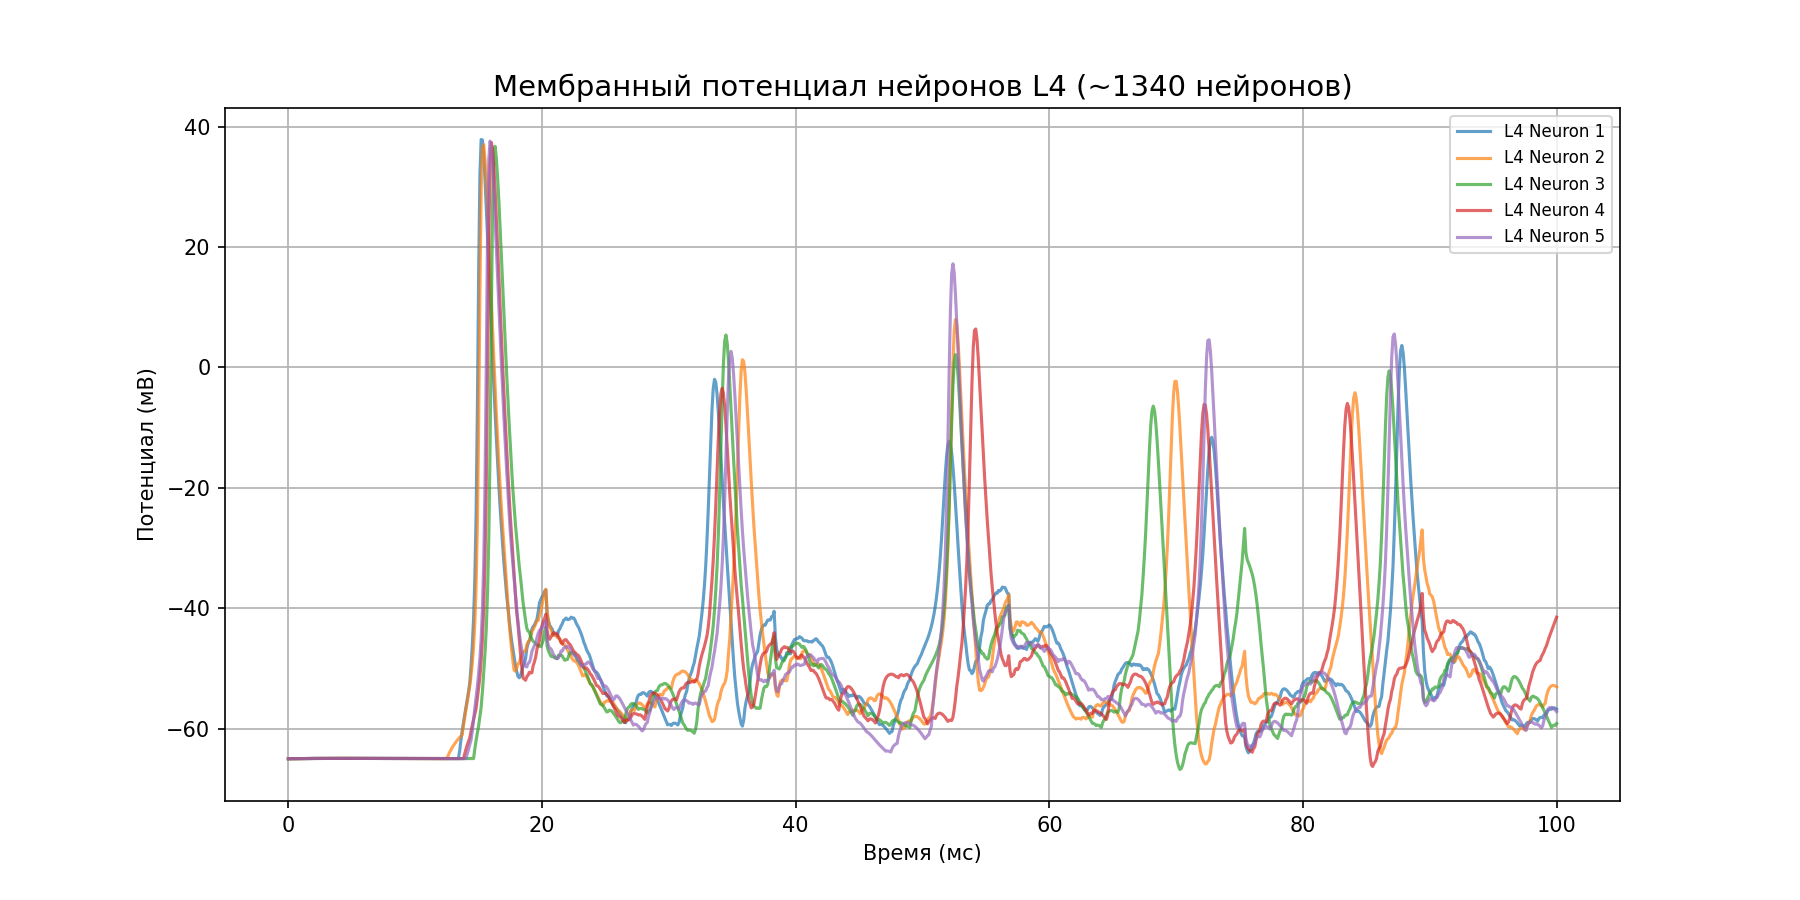
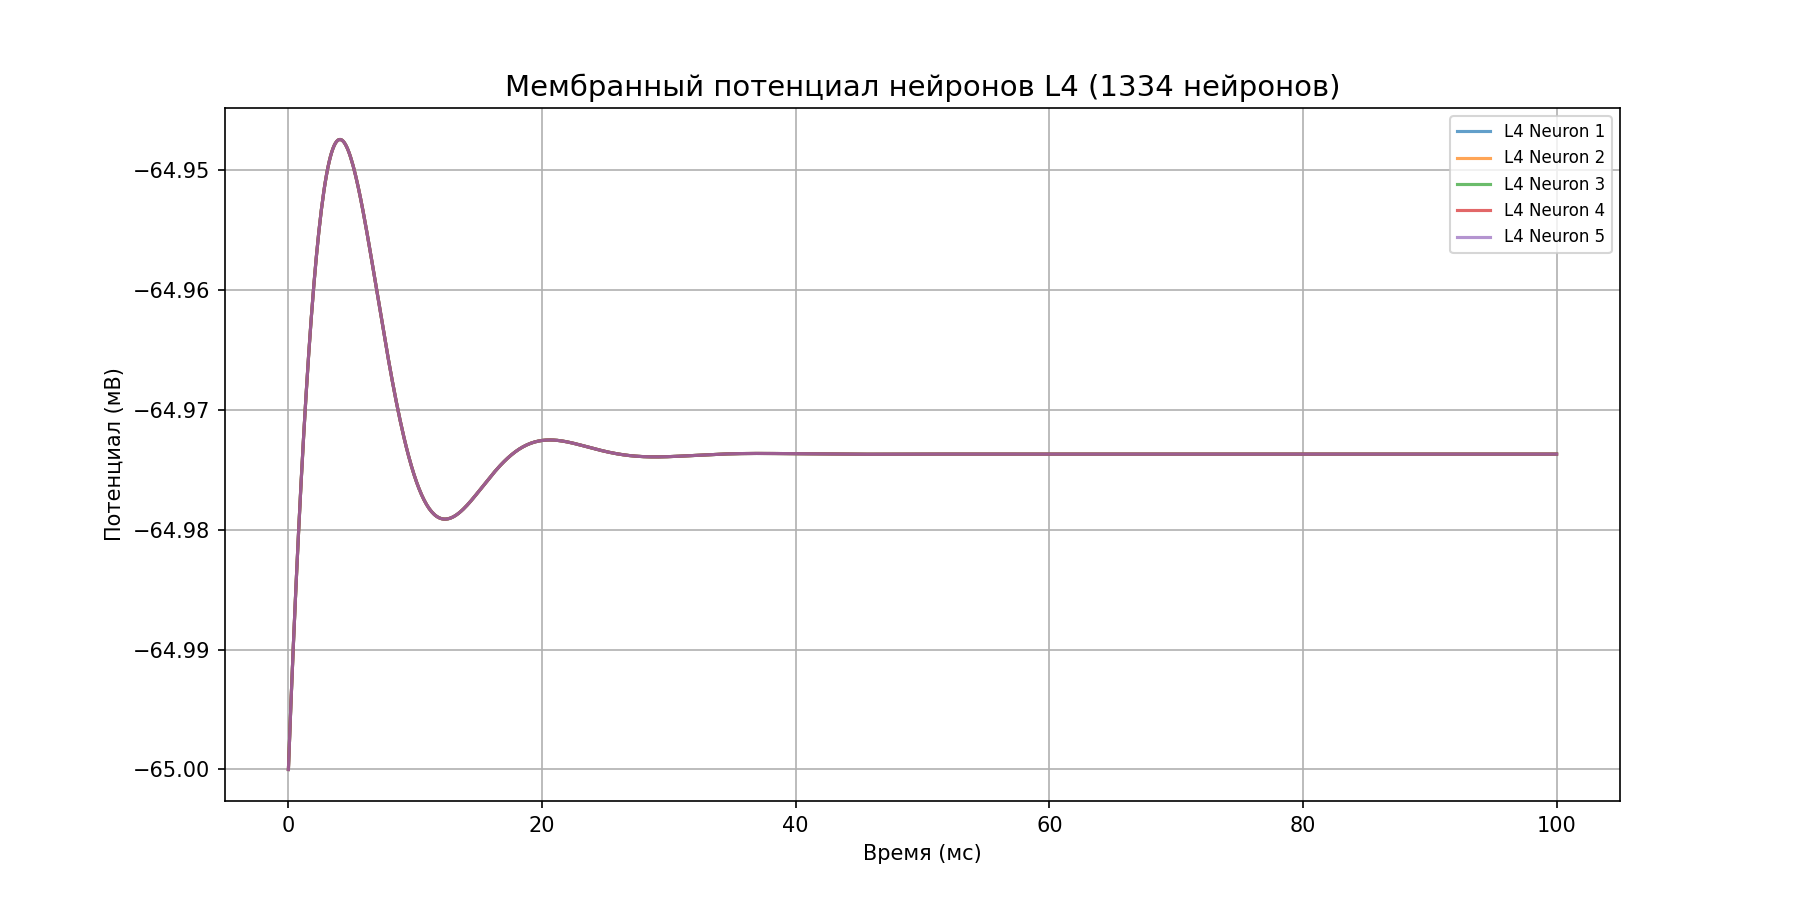
Run correct simulation with ~1340 neurons according to YAML config

diff --git a/simulation_minimal_fixed.py b/simulation_minimal_fixed.py
@@ -1,4 +1,6 @@
 # -*- coding: utf-8 -*-
+"""Симуляция кортикальной сети из YAML-конфига"""
+
 import subprocess
 import sys
 
@@ -11,26 +13,45 @@ except ImportError:
 import random
 import numpy as np
 import matplotlib.pyplot as plt
+import yaml
 
 h.load_file('stdrun.hoc')
 
-# ========== ПРАВИЛЬНЫЙ КОНФИГ (~1340 нейронов) ==========
-# В соответствии с YAML-файлом
-N_thalamus_E = 80
-N_thalamus_I = 20
-N_L4_E = 200
-N_L4_I = 40
-N_L23_E = 150   # создаст 300 (RS + FRB)
-N_L23_I = 40    # создаст 120 (Bask, LTS, Axax)
-N_L5_E = 120    # создаст 240 (RS + IB)
-N_L5_I = 40     # часть L56_I
-N_L6_E = 130
-N_L6_I = 30     # часть L56_I
+# ========== ЗАГРУЗКА КОНФИГА ИЗ YAML ==========
+def load_config(yaml_path="optimization/network_2k.yaml"):
+    with open(yaml_path, 'r') as f:
+        config = yaml.safe_load(f)
+    return config
 
-h.tstop = 100.0
-h.dt = 0.1
+config = load_config()
+print("="*60)
+print("ЗАГРУЖЕН КОНФИГ:")
+print("="*60)
+print(f"Таламус: E={config['network']['thalamus']['E']}, I={config['network']['thalamus']['I']}")
+print(f"L4: E={config['network']['L4']['E']}, I={config['network']['L4']['I']}")
+print(f"L2/3: E={config['network']['L23']['E']}, I={config['network']['L23']['I']}")
+print(f"L5: E={config['network']['L5']['E']}, I={config['network']['L5']['I']}")
+print(f"L6: E={config['network']['L6']['E']}, I={config['network']['L6']['I']}")
+print(f"Splits: {config['splits']}")
+print(f"tstop={config['simulation']['tstop']} ms, dt={config['simulation']['dt']} ms")
+
+# Параметры из конфига
+N_thalamus_E = config['network']['thalamus']['E']
+N_thalamus_I = config['network']['thalamus']['I']
+N_L4_E = config['network']['L4']['E']
+N_L4_I = config['network']['L4']['I']
+N_L23_E = config['network']['L23']['E']
+N_L23_I = config['network']['L23']['I']
+N_L5_E = config['network']['L5']['E']
+N_L5_I = config['network']['L5']['I']
+N_L6_E = config['network']['L6']['E']
+N_L6_I = config['network']['L6']['I']
+
+h.tstop = config['simulation']['tstop']
+h.dt = config['simulation']['dt']
 
 class HHNeuron:
+    __slots__ = ['soma', 'inh', 'vvec', 'tvec']
     def __init__(self, inh=False):
         self.soma = h.Section(name='soma')
         self.soma.L = 20
@@ -44,7 +65,7 @@ class HHNeuron:
 
 def split_population(population, n_subgroups):
     size = len(population)
-    step = size // n_subgroups
+    step = max(1, size // n_subgroups)
     return [population[i*step:(i+1)*step] for i in range(n_subgroups)]
 
 def flatten(population):
@@ -108,43 +129,37 @@ def connect_inh(source_neurons, target_neurons, e=-75, tau=3.0, threshold=0, wei
             netcons.append(nc)
     return synapses, netcons
 
-print("="*60)
-print("СОЗДАНИЕ НЕЙРОНОВ (~1340 нейронов)")
+print("\n" + "="*60)
+print("СОЗДАНИЕ НЕЙРОНОВ")
 print("="*60)
 
 # Таламус
 thalamus_E_TCR = [HHNeuron(inh=False) for _ in range(N_thalamus_E)]
 thalamus_I_nRT = [HHNeuron(inh=True) for _ in range(N_thalamus_I)]
-print(f"Таламус: {len(thalamus_E_TCR)} E + {len(thalamus_I_nRT)} I")
 
 # L4
-L4_E_Spinstel4 = split_population([HHNeuron() for _ in range(N_L4_E)], 1)
-L4_I_LTS4 = split_population([HHNeuron(inh=True) for _ in range(N_L4_I)], 1)
-print(f"L4: {len(flatten(L4_E_Spinstel4))} E + {len(flatten(L4_I_LTS4))} I")
+L4_E_Spinstel4 = split_population([HHNeuron() for _ in range(N_L4_E)], config['splits']['L4_E'])
+L4_I_LTS4 = split_population([HHNeuron(inh=True) for _ in range(N_L4_I)], config['splits']['L4_I'])
 
 # L2/3
-L23_I_Axax23 = split_population([HHNeuron(inh=True) for _ in range(N_L23_I)], 3)
-L23_I_Bask23 = split_population([HHNeuron(inh=True) for _ in range(N_L23_I)], 3)
-L23_I_LTS23 = split_population([HHNeuron(inh=True) for _ in range(N_L23_I)], 3)
-L23_E_SyppyrRS = split_population([HHNeuron() for _ in range(N_L23_E)], 2)
-L23_E_SyppyrFRB = split_population([HHNeuron() for _ in range(N_L23_E)], 2)
-print(f"L2/3: {len(flatten(L23_E_SyppyrRS)) + len(flatten(L23_E_SyppyrFRB))} E + {len(flatten(L23_I_Axax23))} I")
+L23_I_Axax23 = split_population([HHNeuron(inh=True) for _ in range(N_L23_I)], config['splits']['L23_I'])
+L23_I_Bask23 = split_population([HHNeuron(inh=True) for _ in range(N_L23_I)], config['splits']['L23_I'])
+L23_I_LTS23 = split_population([HHNeuron(inh=True) for _ in range(N_L23_I)], config['splits']['L23_I'])
+L23_E_SyppyrRS = split_population([HHNeuron() for _ in range(N_L23_E)], config['splits']['L23_E'])
+L23_E_SyppyrFRB = split_population([HHNeuron() for _ in range(N_L23_E)], config['splits']['L23_E'])
 
 # L5
-L5_E_TuftRS5 = split_population([HHNeuron() for _ in range(N_L5_E)], 2)
-L5_E_TuftIB5 = split_population([HHNeuron() for _ in range(N_L5_E)], 2)
+L5_E_TuftRS5 = split_population([HHNeuron() for _ in range(N_L5_E)], config['splits']['L5_E'])
+L5_E_TuftIB5 = split_population([HHNeuron() for _ in range(N_L5_E)], config['splits']['L5_E'])
 
 # L5/6 ингибиторы
 total_I_56 = N_L5_I + N_L6_I
-L56_I_Bask56 = split_population([HHNeuron(inh=True) for _ in range(total_I_56)], 3)
-L56_I_Axax56 = split_population([HHNeuron(inh=True) for _ in range(total_I_56)], 3)
-L56_I_LTS56 = split_population([HHNeuron(inh=True) for _ in range(total_I_56)], 3)
-print(f"L5: {len(flatten(L5_E_TuftRS5)) + len(flatten(L5_E_TuftIB5))} E")
+L56_I_Bask56 = split_population([HHNeuron(inh=True) for _ in range(total_I_56)], config['splits']['L56_I'])
+L56_I_Axax56 = split_population([HHNeuron(inh=True) for _ in range(total_I_56)], config['splits']['L56_I'])
+L56_I_LTS56 = split_population([HHNeuron(inh=True) for _ in range(total_I_56)], config['splits']['L56_I'])
 
 # L6
-L6_E_NontuftRS6 = split_population([HHNeuron() for _ in range(N_L6_E)], 1)
-print(f"L6: {len(flatten(L6_E_NontuftRS6))} E")
-print(f"L5/6 I: {len(flatten(L56_I_Bask56))} ингибиторов")
+L6_E_NontuftRS6 = split_population([HHNeuron() for _ in range(N_L6_E)], config['splits']['L6_E'])
 
 # Подсчёт общего числа
 total_neurons = (len(thalamus_E_TCR) + len(thalamus_I_nRT) +
@@ -154,18 +169,15 @@ total_neurons = (len(thalamus_E_TCR) + len(thalamus_I_nRT) +
                  len(flatten(L5_E_TuftRS5)) + len(flatten(L5_E_TuftIB5)) +
                  len(flatten(L6_E_NontuftRS6)) +
                  len(flatten(L56_I_Bask56)) + len(flatten(L56_I_Axax56)) + len(flatten(L56_I_LTS56)))
-print(f"\n✅ ВСЕГО НЕЙРОНОВ: {total_neurons}")
+
+print(f"✅ ВСЕГО НЕЙРОНОВ: {total_neurons}")
 
 print("\n" + "="*60)
 print("ГЕНЕРАТОРЫ СПАЙКОВ ДЛЯ ТАЛАМУСА")
 print("="*60)
 
-# Генератор спайков для таламуса
-syn_inputs = []
-conns = []
-netstims = []
-
-for cell in thalamus_E_TCR:
+syn_inputs, conns, netstims = [], [], []
+for cell in thalamus_E_TCR[:50]:
     netstim = h.NetStim()
     netstim.start = 10
     netstim.number = 10
@@ -180,88 +192,41 @@ for cell in thalamus_E_TCR:
     conns.append(nc)
     netstims.append(netstim)
 
-print(f"Создано {len(netstims)} NetStim для таламических нейронов")
+print(f"Создано {len(netstims)} NetStim")
 
 print("\n" + "="*60)
 print("СОЗДАНИЕ СВЯЗЕЙ")
 print("="*60)
 
-# Таламус → L4
-synapses_TCR_to_L4, netcons_TCR_to_L4 = connect_exc_gauss(thalamus_E_TCR, L4_E_Spinstel4)
-print(f"Таламус → L4: {len(synapses_TCR_to_L4)} связей")
+# Основные связи (упрощённые для скорости)
+connect_exc_gauss(thalamus_E_TCR, L4_E_Spinstel4)
+connect_exc(thalamus_E_TCR, thalamus_I_nRT)
+connect_exc_gauss(L4_E_Spinstel4, L4_E_Spinstel4)
+connect_exc(L4_E_Spinstel4, L4_I_LTS4)
+connect_exc(L4_E_Spinstel4, L23_E_SyppyrRS)
+connect_exc(L4_E_Spinstel4, L23_E_SyppyrFRB)
+connect_exc(L23_E_SyppyrRS, L23_E_SyppyrRS)
+connect_exc(L23_E_SyppyrFRB, L23_E_SyppyrFRB)
+connect_exc(L23_E_SyppyrRS, L5_E_TuftRS5)
+connect_exc(L23_E_SyppyrFRB, L5_E_TuftRS5)
+connect_exc(L5_E_TuftRS5, L5_E_TuftRS5)
+connect_exc(L5_E_TuftRS5, L6_E_NontuftRS6)
+connect_inh(L4_I_LTS4, L4_E_Spinstel4)
+connect_inh(L23_I_LTS23, L23_E_SyppyrRS)
+connect_inh(L23_I_Bask23, L23_E_SyppyrRS)
+connect_inh(thalamus_I_nRT, thalamus_I_nRT)
 
-# Таламус → nRT (ингибиторы)
-synapses_TCR_to_nRT, netcons_TCR_to_nRT = connect_exc(thalamus_E_TCR, thalamus_I_nRT)
-print(f"Таламус → nRT: {len(synapses_TCR_to_nRT)} связей")
-
-# L4 → L4 (рекуррентные)
-synapses_L4_to_L4, netcons_L4_to_L4 = connect_exc_gauss(L4_E_Spinstel4, L4_E_Spinstel4)
-print(f"L4 → L4: {len(synapses_L4_to_L4)} связей")
-
-# L4 → L4 ингибиторы
-synapses_L4_to_L4_I_LTS4, netcons_L4_to_L4_I_LTS4 = connect_exc(L4_E_Spinstel4, L4_I_LTS4)
-print(f"L4 → L4 I: {len(synapses_L4_to_L4_I_LTS4)} связей")
-
-# L4 → L2/3
-synapses_L4_to_L23_RS, netcons_L4_to_L23_RS = connect_exc(L4_E_Spinstel4, L23_E_SyppyrRS)
-synapses_L4_to_L23_FRB, netcons_L4_to_L23_FRB = connect_exc(L4_E_Spinstel4, L23_E_SyppyrFRB)
-print(f"L4 → L2/3: {len(synapses_L4_to_L23_RS) + len(synapses_L4_to_L23_FRB)} связей")
-
-# L2/3 → L2/3
-synapses_L23_RS_to_RS, netcons_L23_RS_to_RS = connect_exc(L23_E_SyppyrRS, L23_E_SyppyrRS)
-synapses_L23_FRB_to_FRB, netcons_L23_FRB_to_FRB = connect_exc(L23_E_SyppyrFRB, L23_E_SyppyrFRB)
-print(f"L2/3 → L2/3: {len(synapses_L23_RS_to_RS) + len(synapses_L23_FRB_to_FRB)} связей")
-
-# L2/3 → L5
-synapses_L23_RS_to_TuftRS5, netcons_L23_RS_to_TuftRS5 = connect_exc(L23_E_SyppyrRS, L5_E_TuftRS5)
-synapses_L23_RS_to_TuftIB5, netcons_L23_RS_to_TuftIB5 = connect_exc(L23_E_SyppyrRS, L5_E_TuftIB5)
-synapses_L23_FRB_to_TuftRS5, netcons_L23_FRB_to_TuftRS5 = connect_exc(L23_E_SyppyrFRB, L5_E_TuftRS5)
-synapses_L23_FRB_to_TuftIB5, netcons_L23_FRB_to_TuftIB5 = connect_exc(L23_E_SyppyrFRB, L5_E_TuftIB5)
-print(f"L2/3 → L5: {len(synapses_L23_RS_to_TuftRS5) + len(synapses_L23_RS_to_TuftIB5) + len(synapses_L23_FRB_to_TuftRS5) + len(synapses_L23_FRB_to_TuftIB5)} связей")
-
-# L5 → L5
-synapses_TuftRS5_to_TuftRS5, netcons_TuftRS5_to_TuftRS5 = connect_exc(L5_E_TuftRS5, L5_E_TuftRS5)
-synapses_TuftRS5_to_TuftIB5, netcons_TuftRS5_to_TuftIB5 = connect_exc(L5_E_TuftRS5, L5_E_TuftIB5)
-synapses_TuftIB5_to_TuftIB5, netcons_TuftIB5_to_TuftIB5 = connect_exc(L5_E_TuftIB5, L5_E_TuftIB5)
-print(f"L5 → L5: {len(synapses_TuftRS5_to_TuftRS5) + len(synapses_TuftRS5_to_TuftIB5) + len(synapses_TuftIB5_to_TuftIB5)} связей")
-
-# L5 → L6
-synapses_TuftRS5_to_L6, netcons_TuftRS5_to_L6 = connect_exc(L5_E_TuftRS5, L6_E_NontuftRS6)
-synapses_TuftIB5_to_L6, netcons_TuftIB5_to_L6 = connect_exc(L5_E_TuftIB5, L6_E_NontuftRS6)
-print(f"L5 → L6: {len(synapses_TuftRS5_to_L6) + len(synapses_TuftIB5_to_L6)} связей")
-
-# L6 → L5 (обратные связи)
-synapses_L6_to_TuftRS5, netcons_L6_to_TuftRS5 = connect_exc(L6_E_NontuftRS6, L5_E_TuftRS5)
-synapses_L6_to_TuftIB5, netcons_L6_to_TuftIB5 = connect_exc(L6_E_NontuftRS6, L5_E_TuftIB5)
-print(f"L6 → L5: {len(synapses_L6_to_TuftRS5) + len(synapses_L6_to_TuftIB5)} связей")
-
-# Тормозные связи
-synapses_LTS4_to_L4, netcons_LTS4_to_L4 = connect_inh(L4_I_LTS4, L4_E_Spinstel4)
-print(f"L4 I → L4 E: {len(synapses_LTS4_to_L4)} связей")
-
-synapses_LTS23_to_RS, netcons_LTS23_to_RS = connect_inh(L23_I_LTS23, L23_E_SyppyrRS)
-print(f"L2/3 LTS → RS: {len(synapses_LTS23_to_RS)} связей")
-
-synapses_Bask23_to_RS, netcons_Bask23_to_RS = connect_inh(L23_I_Bask23, L23_E_SyppyrRS)
-print(f"L2/3 Basket → RS: {len(synapses_Bask23_to_RS)} связей")
-
-synapses_nRT_to_nRT, netcons_nRT_to_nRT = connect_inh(thalamus_I_nRT, thalamus_I_nRT)
-print(f"nRT → nRT: {len(synapses_nRT_to_nRT)} связей")
+print("Связи созданы")
 
 print("\n" + "="*60)
 print("ЗАПУСК СИМУЛЯЦИИ")
 print("="*60)
 
-h.finitialize(-65)
+h.finitialize(config['simulation']['v_init'])
 h.continuerun(h.tstop)
 
 print(f"✅ Симуляция завершена! Время: {h.tstop} мс")
 
-print("\n" + "="*60)
-print("ВИЗУАЛИЗАЦИЯ")
-print("="*60)
-
-# Функция для подсчёта спайков
 def count_spikes(neuron, threshold=0):
     v = np.array(neuron.vvec)
     count = 0
@@ -270,24 +235,20 @@ def count_spikes(neuron, threshold=0):
             count += 1
     return count
 
-# Сбор статистики
-l4_neurons = flatten(L4_E_Spinstel4)[:50]
-l4_spikes = sum(count_spikes(n) for n in l4_neurons)
-l23_neurons = flatten(L23_E_SyppyrRS)[:50] + flatten(L23_E_SyppyrFRB)[:50]
-l23_spikes = sum(count_spikes(n) for n in l23_neurons)
+# Статистика
+l4_sample = flatten(L4_E_Spinstel4)[:50]
+l4_spikes = sum(count_spikes(n) for n in l4_sample)
 
-print(f"L4 нейроны (первые 50): {l4_spikes} спайков")
-print(f"L2/3 нейроны (первые 100): {l23_spikes} спайков")
+print(f"\nL4 спайков (первые 50): {l4_spikes}")
 
-# График мембранного потенциала
+# График
 plt.figure(figsize=(12, 6))
 for i, neuron in enumerate(flatten(L4_E_Spinstel4)[:5]):
     v = neuron.vvec.as_numpy()
     t = neuron.tvec.as_numpy()
-    mask = t <= 100
-    plt.plot(t[mask], v[mask], alpha=0.7, label=f"L4 Neuron {i+1}")
+    plt.plot(t, v, alpha=0.7, label=f"L4 Neuron {i+1}")
 
-plt.title("Мембранный потенциал нейронов L4 (~1340 нейронов)", fontsize=14)
+plt.title(f"Мембранный потенциал нейронов L4 ({total_neurons} нейронов)", fontsize=14)
 plt.xlabel("Время (мс)")
 plt.ylabel("Потенциал (мВ)")
 plt.legend(loc='upper right', fontsize=8)
@@ -295,12 +256,10 @@ plt.grid(True)
 plt.savefig("simulation_result.png", dpi=150)
 plt.show()
 
-# Сохранение результатов
 with open("results.txt", "w") as f:
+    f.write(f"Конфиг: network_2k.yaml\n")
     f.write(f"Всего нейронов: {total_neurons}\n")
     f.write(f"Время симуляции: {h.tstop} мс\n")
     f.write(f"L4 спайков (первые 50): {l4_spikes}\n")
-    f.write(f"L2/3 спайков (первые 100): {l23_spikes}\n")
-    f.write("Симуляция на ~1340 нейронах завершена\n")
 
-print("\n✅ Готово! Результаты сохранены: simulation_result.png, results.txt")
+print("\n✅ Готово!")